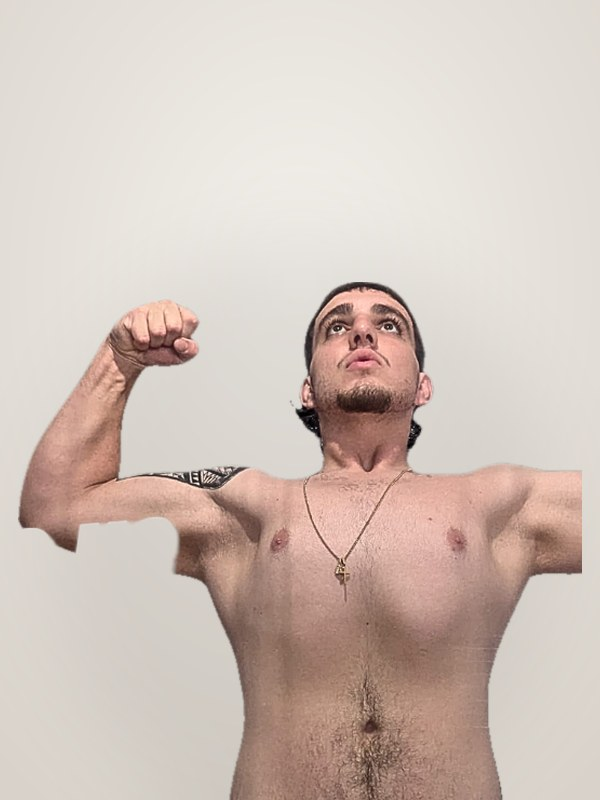
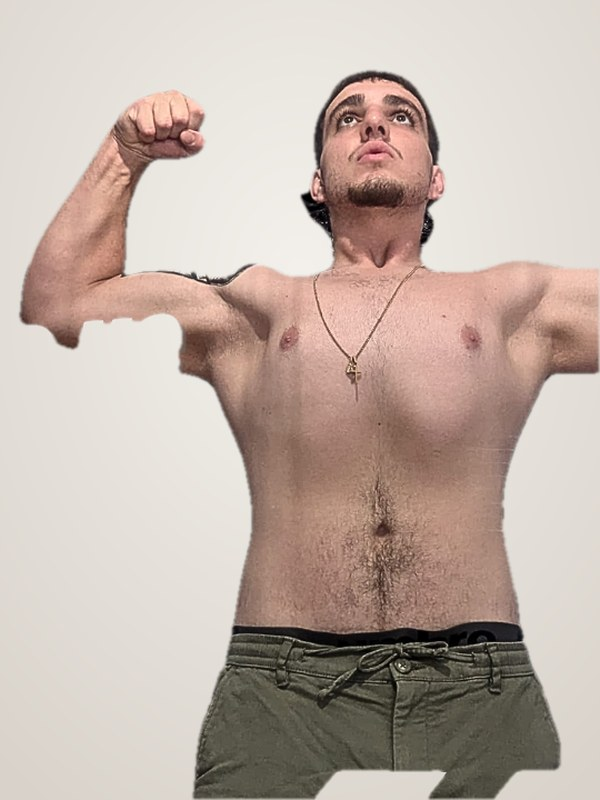
Photo d'accueil premium, avant/après plus percutants, Alexis et histoire refaits, animations

diff --git a/index.html b/index.html
@@ -92,6 +92,44 @@ section{padding:72px 0}
 .msign img{width:52px;height:52px;border-radius:50%;object-fit:cover;object-position:center 20%}
 .msign b{display:block}.msign span{font-size:14px;color:var(--soft)}
 @media(max-width:560px){.mrow{gap:8px}.mrow div{padding:12px 6px}.mrow b{font-size:20px}.mrow span{font-size:11px;display:block;line-height:1.3}.mcard p{font-size:16px}}
+/* v2: hero premium + badges */
+.coach{overflow:visible!important;background:transparent!important;box-shadow:none!important}
+.coach .ph{position:relative;border-radius:var(--r-l);overflow:hidden;box-shadow:0 30px 70px -20px rgba(14,23,38,.55);aspect-ratio:4/5}
+.coach .ph img{width:100%;height:100%;object-fit:cover;object-position:center top}
+.coach .ph::after{content:"";position:absolute;inset:62% 0 0;background:linear-gradient(transparent,rgba(8,14,26,.85))}
+.coach::after{display:none!important}
+.coach .name{bottom:22px!important;z-index:2}
+.fb{position:absolute;z-index:3;background:#fff;border-radius:16px;box-shadow:0 14px 34px -10px rgba(0,0,0,.3);padding:10px 14px;display:flex;align-items:center;gap:10px;animation:fl 5s ease-in-out infinite}
+.fb b{display:block;font-size:22px;letter-spacing:-.5px;line-height:1.1}
+.fb span{font-size:12px;color:var(--soft);font-weight:600}
+.fb .ico{width:38px;height:38px;border-radius:10px;display:grid;place-items:center;font-weight:800;font-size:13px}
+.fb1{top:16%;left:-34px}.fb1 b{color:var(--blue)}
+.fb2{top:48%;right:-30px;animation-delay:-2.5s}.fb2 .ico{background:#1D1D1F;color:#fff;letter-spacing:1px}
+.fb3{bottom:70px;left:-30px;animation-delay:-1.2s}.fb3 .ico{background:var(--blue-l);font-size:18px}
+@keyframes fl{0%,100%{transform:translateY(0)}50%{transform:translateY(-8px)}}
+.stats b{font-size:44px!important;color:var(--text)}
+.stats b.hl{color:var(--blue)}
+/* v2: transformations */
+.tcard{width:min(420px,86vw)!important;border-radius:24px!important;box-shadow:0 18px 44px -18px rgba(0,0,0,.28)!important}
+.pair{position:relative;gap:4px!important}
+.pair .lb{position:absolute;top:12px;z-index:2;font-size:11px;font-weight:800;letter-spacing:1.5px;padding:5px 10px;border-radius:980px}
+.pair .lb.a{left:12px;background:rgba(29,29,31,.8);color:#fff}.pair .lb.b{right:12px;background:var(--blue);color:#fff}
+.pair .bdg{position:absolute;left:50%;bottom:-26px;transform:translateX(-50%);z-index:3;background:var(--blue);color:#fff;font-weight:800;font-size:30px;letter-spacing:-1px;padding:8px 22px;border-radius:980px;border:4px solid #fff;white-space:nowrap;box-shadow:0 10px 26px -8px rgba(0,122,255,.55)}
+.tinfo{padding:38px 18px 20px;text-align:center}
+.tinfo b{display:block;font-size:20px}
+.tinfo span{display:inline-block;margin-top:6px;background:var(--cream);border-radius:980px;padding:4px 12px;font-size:12px;font-weight:700;letter-spacing:1px;color:var(--soft);text-transform:uppercase}
+/* v2: story trio */
+.trio{position:relative}
+.trio figure{border-radius:24px!important;box-shadow:0 18px 44px -18px rgba(0,0,0,.28)!important}
+.trio figcaption{top:14px;bottom:auto!important;left:50%!important;transform:translateX(-50%);font-size:13px!important;padding:6px 14px!important}
+.trio .big40{position:absolute;left:50%;bottom:-30px;transform:translateX(-50%);z-index:3;background:var(--blue);color:#fff;font-weight:800;font-size:clamp(26px,4vw,40px);letter-spacing:-1px;padding:10px 28px;border-radius:980px;border:5px solid var(--cream);white-space:nowrap;box-shadow:0 14px 30px -8px rgba(0,122,255,.55)}
+.trio figure:nth-child(-n+2)::after{content:"→";position:absolute;right:-22px;top:50%;transform:translateY(-50%);z-index:2;width:28px;height:28px;border-radius:50%;background:#fff;color:var(--blue);display:grid;place-items:center;font-weight:800;box-shadow:var(--sh-s)}
+.trio figure{overflow:visible!important}.trio img{border-radius:24px}
+/* v2: reveal */
+.rv-in{opacity:0;transform:translateY(26px);transition:opacity .7s ease,transform .7s ease}
+.rv-in.on{opacity:1;transform:none}
+@media(max-width:780px){.fb1{left:-6px;top:12%}.fb2{right:-6px}.fb3{display:none}.fb{padding:8px 11px}.fb b{font-size:18px}.pair .bdg{font-size:24px}.trio figure:nth-child(-n+2)::after{display:none}}
+@media(prefers-reduced-motion:reduce){.fb{animation:none}.rv-in{opacity:1;transform:none;transition:none}}
 /* trustpilot pill */
 .tppill{display:inline-flex;align-items:center;gap:12px;background:#fff;border-radius:980px;padding:10px 20px;box-shadow:var(--sh-s);text-decoration:none;font-size:15px;font-weight:600;flex-wrap:wrap;justify-content:center}
 .tpl{display:inline-flex;align-items:center;gap:5px;font-weight:700}
@@ -225,14 +263,17 @@ footer p{margin:6px 0}
         <span class="spots"><i></i>Plus que <b>4</b> places disponibles en décembre</span>
       </div>
       <div class="coach">
-        <a class="igpill" href="https://www.instagram.com/nutritionybruno/"><span class="ic"><svg width="14" height="14" viewBox="0 0 24 24" fill="none" stroke="#fff" stroke-width="2.4"><rect x="3" y="3" width="18" height="18" rx="5"/><circle cx="12" cy="12" r="4"/></svg></span>@nutritionybruno</a>
-        <img src="img/hero.jpg" alt="Coach Bruno">
-        <div class="name">Coach Bruno</div><div class="role">Nutritionniste diplômé · Vu sur RTS</div>
+        <a class="igpill" style="z-index:4" href="https://www.instagram.com/nutritionybruno/"><span class="ic"><svg width="14" height="14" viewBox="0 0 24 24" fill="none" stroke="#fff" stroke-width="2.4"><rect x="3" y="3" width="18" height="18" rx="5"/><circle cx="12" cy="12" r="4"/></svg></span>@nutritionybruno</a>
+        <div class="ph"><img src="img/hero-premium.jpg" alt="Coach Bruno, nutritionniste diplômé">
+        <div class="name">Coach Bruno</div></div>
+        <div class="fb fb1"><div><b>−40 kg</b><span>ma transformation</span></div></div>
+        <div class="fb fb2"><div class="ico">RTS</div><div><b style="font-size:16px">Vu à la TV</b><span>Infrarouge</span></div></div>
+        <div class="fb fb3"><div class="ico">🎓</div><div><b style="font-size:16px">Nutritionniste</b><span>diplômé en Suisse</span></div></div>
       </div>
     </div>
     <div class="stats">
-      <div><b>85+</b><span>Suisses accompagnés</span></div>
-      <div><b>−40 kg</b><span>ma propre transformation</span></div>
+      <div><b class="hl" data-n="85" data-s="+">85+</b><span>Suisses accompagnés</span></div>
+      <div><b data-n="40" data-p="−" data-s=" kg">−40 kg</b><span>ma propre transformation</span></div>
       <div><b>5<span class="g">★</span></b><span>avis sur Trustpilot ↗</span></div>
     </div>
     <div class="auth">
@@ -292,10 +333,11 @@ footer p{margin:6px 0}
   <div class="wrap center">
     <div class="eyebrow">Mon histoire</div>
     <p class="quote">«&nbsp;J'ai été l'obèse qui évitait les miroirs.&nbsp;»</p>
-    <div class="trio">
-      <figure><img src="img/story1.jpg" alt="Bruno avant"><figcaption>Avant</figcaption></figure>
-      <figure><img src="img/avant.jpg" alt="Bruno pendant"><figcaption>Pendant</figcaption></figure>
-      <figure><img src="img/apres.jpg" alt="Bruno aujourd'hui"><figcaption>Aujourd'hui</figcaption></figure>
+    <div class="trio" style="margin-bottom:70px">
+      <figure><img src="img/bruno-avant.jpg" alt="Bruno avant, en obésité"><figcaption>Avant</figcaption></figure>
+      <figure><img src="img/bruno-pendant.jpg" alt="Bruno pendant sa transformation"><figcaption>Pendant</figcaption></figure>
+      <figure><img src="img/bruno-apres.jpg" alt="Bruno aujourd'hui"><figcaption>Aujourd'hui</figcaption></figure>
+      <span class="big40">−40 kg</span>
     </div>
     <div class="textcard" style="text-align:left">
       <p>Je m'appelle Bruno, je suis <b>nutritionniste diplômé (TCMA Genève)</b> et coach en ligne. Le sport et la nutrition sont aujourd'hui au centre de ma vie. Mais ça n'a pas toujours été le cas.</p>
@@ -415,7 +457,7 @@ const T=[
  {k:'lucie',to:'−14 kg',name:'Lucie',dur:'6 mois'},
  {k:'marco',to:'−11 kg',name:'Marco',dur:'4 mois'},
  {k:'severine',to:'−11 kg',name:'Séverine',dur:'11 mois'}].map(t=>({...t,a:`img/${t.k}-avant.jpg`,b:`img/${t.k}-apres.jpg`,from:'Avant'}));
-const card=t=>`<div class="tcard"><div class="pair"><img src="${t.a}" alt="${t.name} avant" loading="lazy"><img src="${t.b}" alt="${t.name} après" loading="lazy"></div><div class="kg"><span>${t.from||'Avant'}</span><span class="ar">→</span><span class="to">${t.to}</span></div><div class="tname">${t.name}</div><span class="dur">${t.dur}</span></div>`;
+const card=t=>`<div class="tcard"><div class="pair"><span class="lb a">AVANT</span><span class="lb b">APRÈS</span><img src="${t.a}" alt="${t.name} avant" loading="lazy"><img src="${t.b}" alt="${t.name} après" loading="lazy"><span class="bdg">${t.to}</span></div><div class="tinfo"><b>${t.name}</b><span>en ${t.dur}</span></div></div>`;
 const loop=[...T];
 document.getElementById('track').innerHTML=[...loop,...loop].map(card).join('');
 
@@ -480,6 +522,10 @@ if(location.hash=='#apply')open();
 $('close').onclick=close;modal.addEventListener('click',e=>{if(e.target===modal)close()});
 document.addEventListener('keydown',e=>{if(e.key=='Escape')close()});
 
+const rvEls=document.querySelectorAll('section h2,.tcard,.trio,.mcard,.ac,.pc,.hc,.rv,.pack,.stats');
+rvEls.forEach(e=>e.classList.add('rv-in'));
+const cnt=el=>{const n=+el.dataset.n,p=el.dataset.p||'',sf=el.dataset.s||'';let t0=null;const st=ts=>{t0??=ts;const k=Math.min(1,(ts-t0)/1200);el.textContent=p+Math.round(n*(1-Math.pow(1-k,3)))+sf;if(k<1)requestAnimationFrame(st)};requestAnimationFrame(st)};
+if('IntersectionObserver' in window){const io=new IntersectionObserver(es=>es.forEach(en=>{if(en.isIntersecting){en.target.classList.add('on');en.target.querySelectorAll('[data-n]').forEach(cnt);io.unobserve(en.target)}}),{threshold:.15});rvEls.forEach(e=>io.observe(e))}else rvEls.forEach(e=>e.classList.add('on'));
 let seen=null;try{seen=localStorage.getItem('ooo-cookie')}catch(e){}
 if(!seen)$('cookie').classList.add('show');
 const ck=v=>{try{localStorage.setItem('ooo-cookie',v)}catch(e){}$('cookie').classList.remove('show')};
